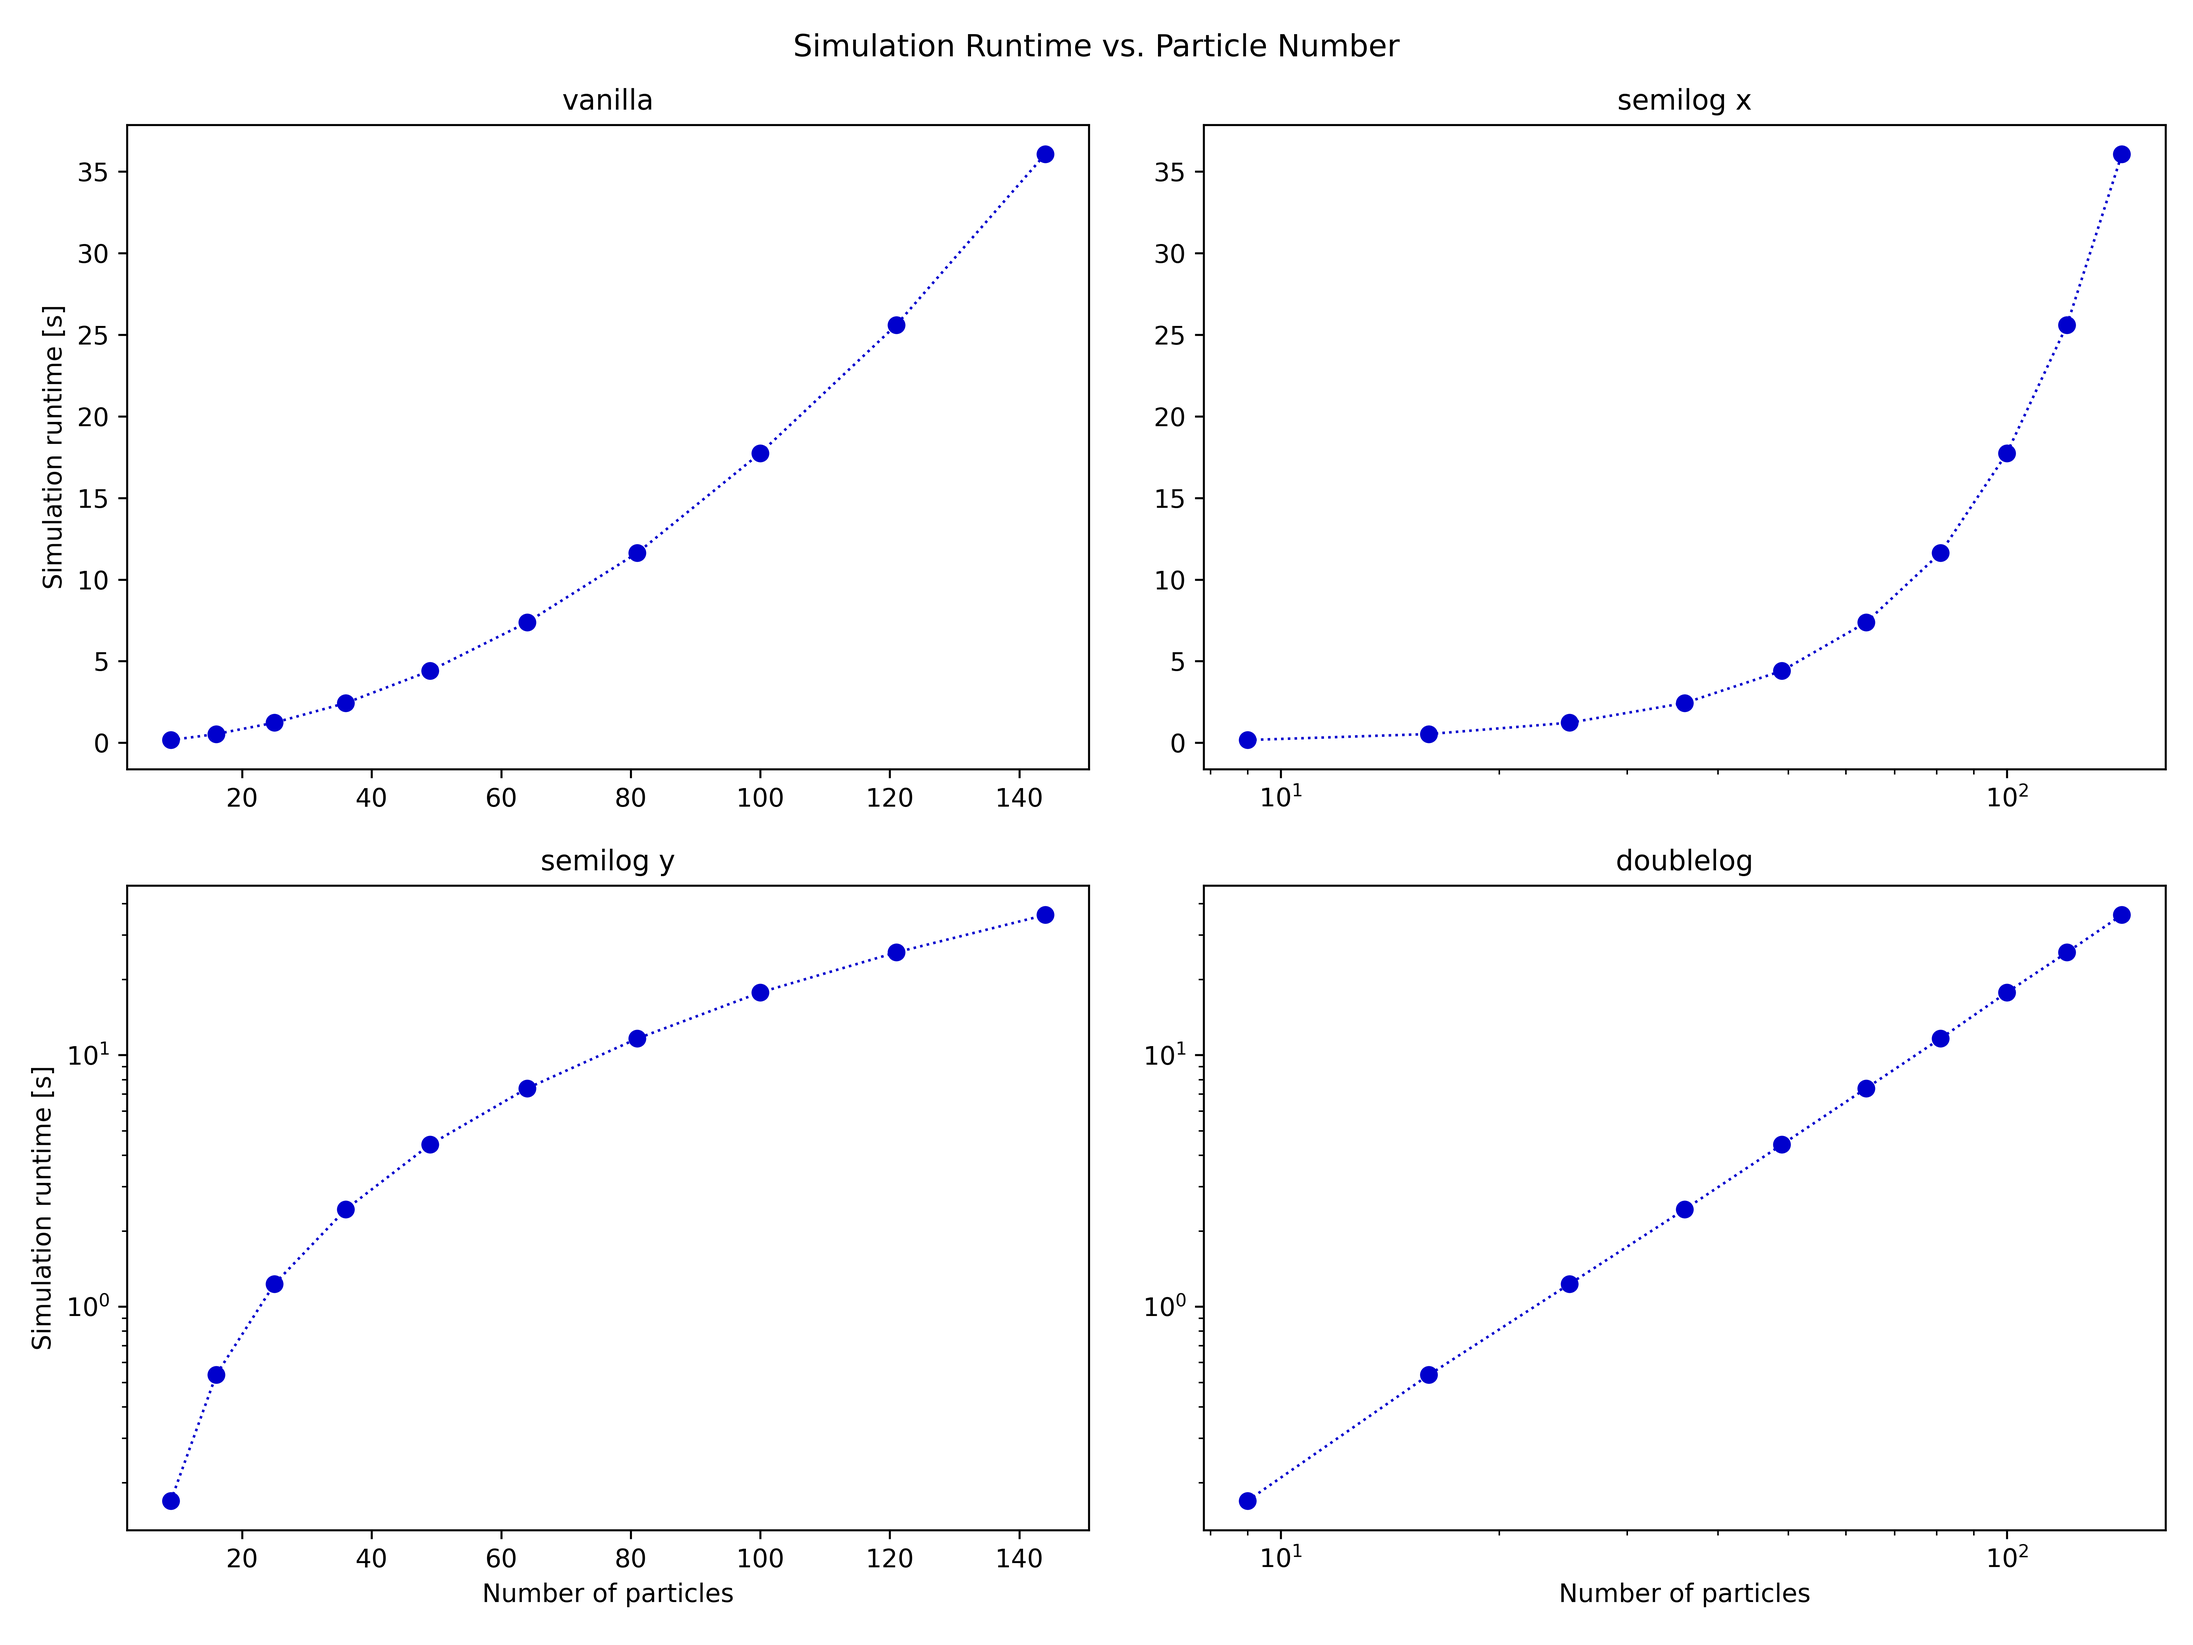
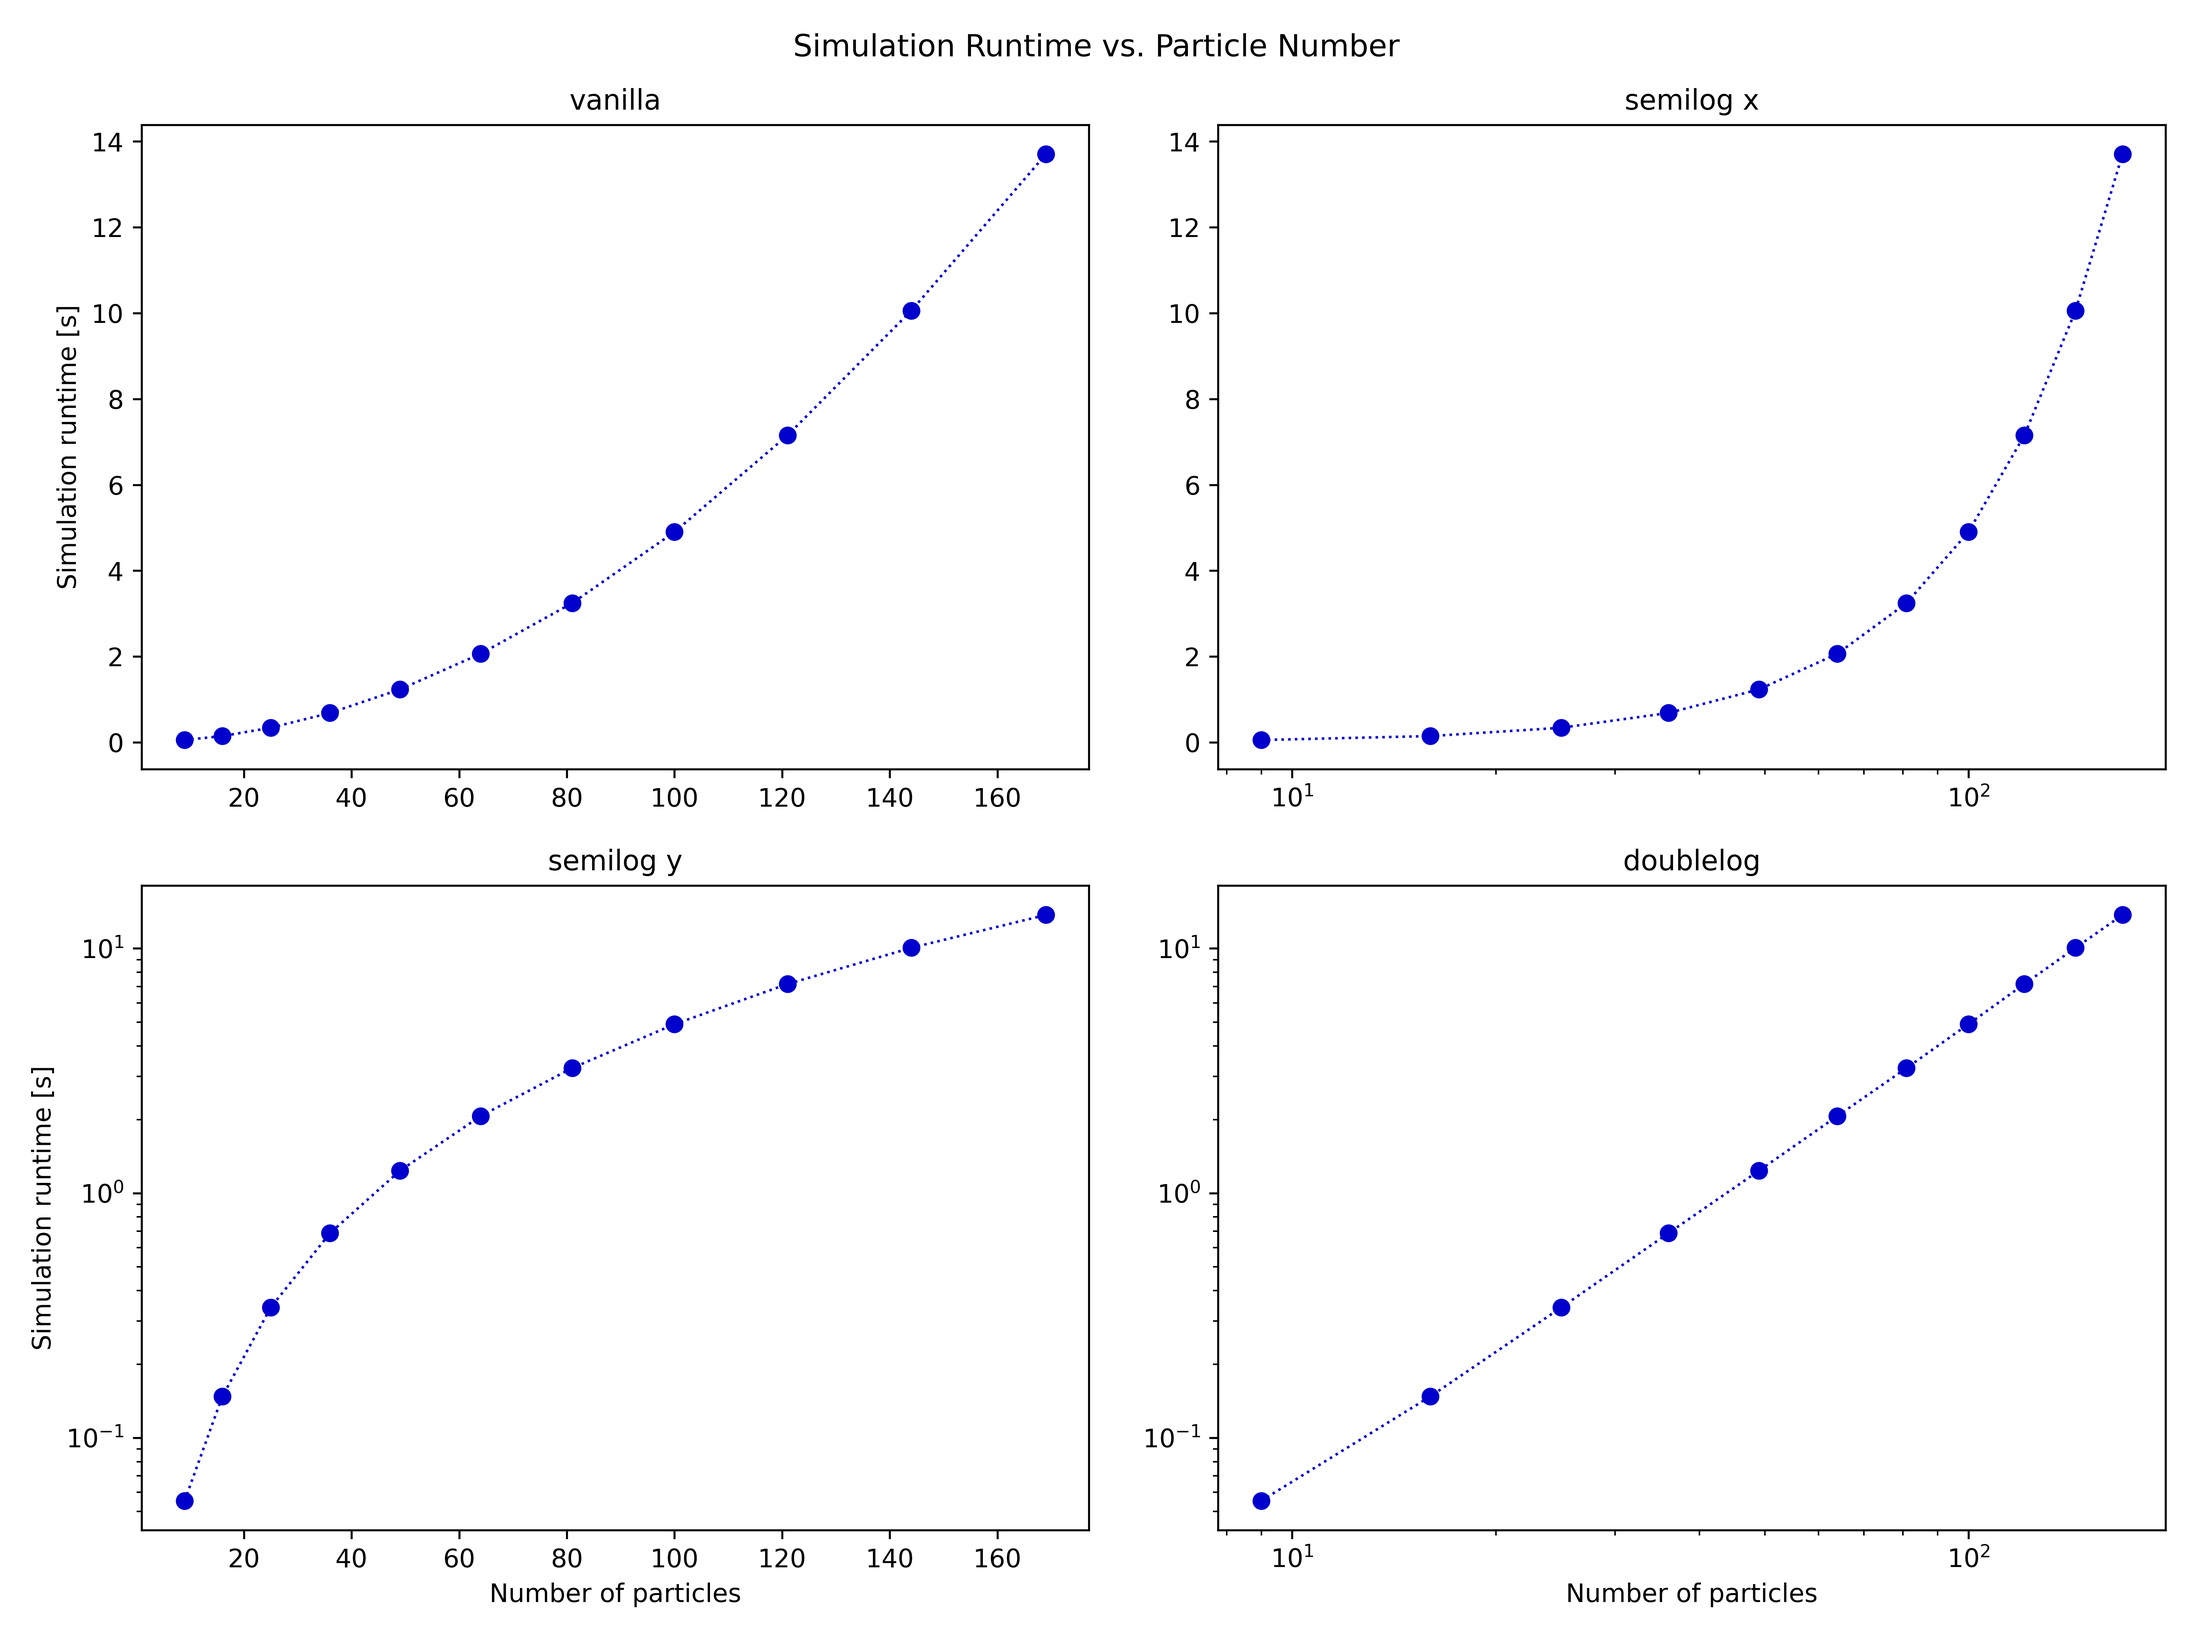
Implementation of the analysis in A3.6 with all plots. Some minor changes in previous files.

diff --git a/sm1_worksheet_2/solutions/ex_3_6.py b/sm1_worksheet_2/solutions/ex_3_6.py
@@ -11,11 +11,15 @@ TODO:
     - PBC are missing in VV I think
     - Iwas stimmt mit der Intergration oder so nicht. Muss mir das ganze noch ein mal ansehen.
 """
-from itertools import count
-
 import numpy as np
 import scipy.linalg
 import time
+
+import itertools
+import tqdm
+import matplotlib.pyplot as plt
+
+from typing import Tuple
 
 import ex_3_4
 import ex_3_5
@@ -85,6 +89,8 @@ def step_vv(x: np.ndarray, v: np.ndarray, f: np.ndarray, dt: float, r_cut: float
     # half update of the velocity
     v += 0.5 * f * dt
 
+    # apply pbc
+    x, v = ex_3_4.apply_pbc(x, v, box)
     # compute new forces
     f = forces(x, r_cut, box, verlet_list)
     # we assume that all particles have a mass of unity
@@ -92,45 +98,30 @@ def step_vv(x: np.ndarray, v: np.ndarray, f: np.ndarray, dt: float, r_cut: float
     # second half update of the velocity
     v += 0.5 * f * dt
 
-    # apply pbc
-    x, v = ex_3_4.apply_pbc(x, v, box)
     return x, v, f, x0, verlet_list
 
-if __name__ == "__main__":
-    import argparse
-    import itertools
-    import tqdm
-    import matplotlib.pyplot as plt
-
-    parser = argparse.ArgumentParser()
-    parser.add_argument(
-        'N_per_side',
-        type=int,
-        nargs=1,
-        help='Number of particles per lattice side.')
-    parser.add_argument(
-        'skin',
-        type=float,
-        nargs=1,
-        help='Skin for Verlet lists.')
-    args = parser.parse_args()
-
+def init_and_run_simulation(n_per_side: int, skin: float, T_MAX = None) -> Tuple[float, int]:
+    """
+    write helper
+    """
     DT = 0.01
-    T_MAX = 1.0
+    T_MAX = 1.0 if T_MAX is None else T_MAX
     N_TIME_STEPS = int(T_MAX / DT)
 
     R_CUT = 2.5
     SHIFT = - 0.016316891136
 
-    SKIN = args.skin[0]
+    SKIN = skin
     nargs=1,
 
     DIM = 2
     DENSITY = 0.7
-    N_PER_SIDE = args.N_per_side[0]
+    N_PER_SIDE = n_per_side
     N_PART = N_PER_SIDE**DIM
     VOLUME = N_PART / DENSITY
     BOX = np.ones(DIM) * VOLUME**(1. / DIM)
+
+    start_time = time.time()
 
     # particle positions
     # x = np.array(list(itertools.product(np.linspace(0, BOX[0], N_PER_SIDE, endpoint=False),
@@ -153,8 +144,89 @@ if __name__ == "__main__":
         positions[i] = x
         energies[i] = total_energy(x, v, R_CUT, SHIFT, BOX, verlet_list)
 
+    run_time = time.time() - start_time
+
+    print('run_time: ', run_time, 's')
     print('number of updates: ', update_counter)
-    plt.plot(energies)
+    
+    # plt.plot(energies)
+    # plt.show()
+
+    # plt.plot(x[0, :], x[1, :], '.', color='red')
+    # plt.axhline(y=0.0, ls=':', color='k')
+    # plt.axhline(y=BOX[1], ls=':', color='k')
+    # plt.axvline(x=0.0, ls=':', color='k')
+    # plt.axvline(x=BOX[0], ls=':', color='k')
+    # # plt.savefig('sm1_worksheet_2/plots/grid_positions_5_particles.png', format='png', dpi=600)
+    # plt.show()
+
+    return run_time, update_counter
+
+
+if __name__ == "__main__":
+    n_per_side = 8
+    skin_values = np.arange(0.0, 1.0, 0.1)
+
+    # plots were made for T_MAX = 40.0
+    # run_time_list, counter_list = [], []
+    # for skin in skin_values:
+    #     run_time, counts = init_and_run_simulation(n_per_side, skin)
+    #     run_time_list.append(run_time)
+    #     counter_list.append(counts)
+
+    # # generate plots
+    # fig, axs = plt.subplots(1, 2,figsize=(12.0, 6.0))
+
+    # axs[0].plot(skin_values, counter_list, marker='o', markersize=6, lw=1, ls=":", color='mediumblue')
+    
+    # axs[0].set_ylabel("Number of Verlet List Updates")
+    # axs[0].set_xlabel('Skin value')
+    # axs[0].set_title('Skin value vs. Verlet List Updates')
+
+
+    # axs[1].plot(skin_values, run_time_list, marker='o', markersize=6, lw=1, ls=":", color='mediumblue')
+        
+    # axs[1].set_ylabel("Simulation Run Time [s]")
+    # axs[1].set_xlabel('Skin value')
+    # axs[1].set_title('Skin value vs. Simulation Run Time')
+
+    # fig.tight_layout()
+    # # plt.savefig('sm1_worksheet_2/plots/SkinComparison.png', format='png', dpi=600)
+    # plt.show()
+
+    # print(run_time_list[2], run_time_list[3])
+
+    ex_3_5_runtimes = np.load('sm1_worksheet_2/plots/ex_3_5_runtimes.npy')
+    
+    minimal_skin = 0.3
+    T_MAX = 2.50
+    
+    n_per_side_list = np.arange(3, 14, 1, dtype=int)
+    simulation_runtimes = []
+    for n in n_per_side_list:
+        min_run_time, _ = init_and_run_simulation(n, minimal_skin, T_MAX=T_MAX)
+        simulation_runtimes.append(min_run_time)
+
+
+    fig, axs = plt.subplots(1, 2, figsize=(12.0, 6.0))
+
+    axs[0].plot(n_per_side_list**2, simulation_runtimes, marker='o', markersize=6, lw=1, ls=":", color='mediumblue', label='w/ Verlet-List')
+    axs[0].plot(n_per_side_list**2, ex_3_5_runtimes, marker='o', markersize=6, lw=1, ls=":", color='orangered', label='w/o Verlet-List')
+    axs[0].legend(loc='upper left')
+
+    axs[1].plot(n_per_side_list**2, simulation_runtimes, marker='o', markersize=6, lw=1, ls=":", color='mediumblue')
+    axs[1].plot(n_per_side_list**2, ex_3_5_runtimes, marker='o', markersize=6, lw=1, ls=":", color='orangered')
+    axs[1].loglog()
+    
+    axs[0].set_ylabel('Simulation Run Times [s]')
+    axs[0].set_xlabel('Particle Number')
+    axs[1].set_xlabel('Particle Number')
+
+    axs[0].set_title('vanilla axes')
+    axs[1].set_title('double log axes')
+
+    fig.suptitle(f'Number of Particles vs. Simulation runtime for T_MAX={T_MAX}')
+    fig.tight_layout()
+    plt.savefig('sm1_worksheet_2/plots/OptimalSkinRuntimes.png', format='png', dpi=600)
     plt.show()
 
-    

diff --git a/sm1_worksheet_2/solutions/ex_3_5.py b/sm1_worksheet_2/solutions/ex_3_5.py
@@ -70,11 +70,11 @@ def init_and_run_sim(n_per_side: float) -> Tuple[int, float]:
     run_time = end_time - start_time
     print(f'{N_PART}, {run_time}')
 
-    plt.plot(x[0, :], x[1, :], '.')
-    plt.show()
+    # plt.plot(x[0, :], x[1, :], '.')
+    # plt.show()
 
-    plt.plot(energies)
-    plt.show()
+    # plt.plot(energies)
+    # plt.show()
 
     return N_PART, run_time
 
@@ -85,7 +85,7 @@ def parabola(x, a):
 
 if __name__ == "__main__":
 
-    n_per_side_array = np.arange(3, 13, 1, dtype=int)
+    n_per_side_array = np.arange(3, 14, 1, dtype=int)
 
     particle_numbers, simulation_runtimes = [], []
     for n in n_per_side_array:
@@ -93,6 +93,8 @@ if __name__ == "__main__":
         particle_numbers.append(part_number)
         simulation_runtimes.append(sim_runtime)
     
+    np.save('sm1_worksheet_2/plots/ex_3_5_runtimes.npy', np.array(simulation_runtimes))
+
     # fit
     popt, pcov = curve_fit(parabola, particle_numbers, simulation_runtimes)
     print(f'Fit finished!')

diff --git a/sm1_worksheet_2/solutions/ex_3_4.py b/sm1_worksheet_2/solutions/ex_3_4.py
@@ -80,13 +80,13 @@ def total_energy(x: np.ndarray, v: np.ndarray, r_cuttoff: float, shift: float, b
 
 
 def step_vv(x: np.ndarray, v: np.ndarray, f: np.ndarray, dt: float, r_cuttof: float, box: np.ndarray):
-    # perform PBC
-    x, v = apply_pbc(x, v, box)
     # update positions
     x += v * dt + 0.5 * f * dt * dt
     # half update of the velocity
     v += 0.5 * f * dt
 
+    # perform PBC    
+    x, v = apply_pbc(x, v, box)
     # compute new forces
     f = forces(x, r_cuttof, box)
     # we assume that all particles have a mass of unity
@@ -96,7 +96,7 @@ def step_vv(x: np.ndarray, v: np.ndarray, f: np.ndarray, dt: float, r_cuttof: fl
 
     return x, v, f
 
-# iteriert falsche axis, siehe 3.3
+
 def apply_pbc(x: np.ndarray, v: np.ndarray, box: np.ndarray) -> Tuple[np.ndarray, np.ndarray]:
     """
     Write helper
